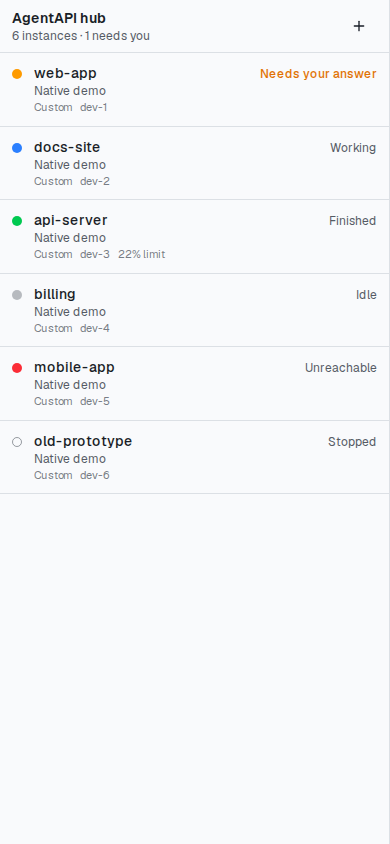
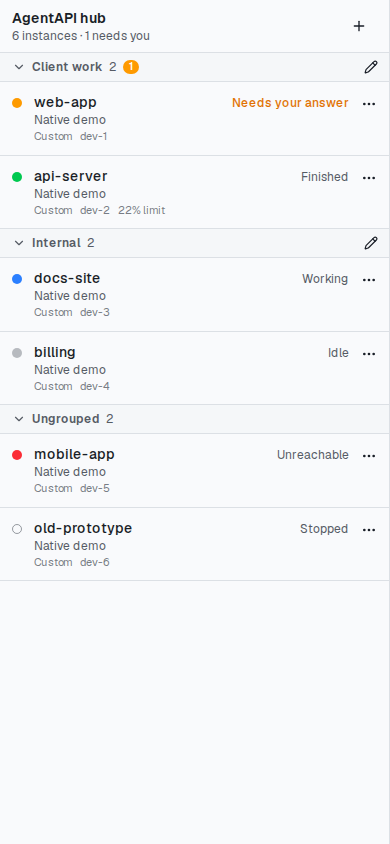
docs: hub groups, and Forget in the row menu
The hub guide (both languages) gets a Groups section with a phone
screenshot of a row's menu, the PATCH endpoint and the state file's
groups; the READMEs, chat UI and architecture guides and the changelog
mention them. The capture script puts four demo instances in two groups,
adds hub-phone-menu.png and numbers the host placeholders with a CSS
counter so group headers don't skip numbers; every screenshot retaken.

diff --git a/docs/hub.md b/docs/hub.md
@@ -147,8 +147,8 @@ stores the token. Changing `--token` signs every browser out.
 
 Each row shows the instance's name (`--name`, by default its working directory's name), what it is
 doing, its title (the session's name, else the start of the latest prompt), the agent, the machine,
-how many messages wait in its queue and its fullest usage limit. The rows sort by state in this
-order, then by name:
+how many messages wait in its queue and its fullest usage limit. Within a [group](#groups), the
+rows sort by state in this order, then by name:
 
 | Dot | Label | Meaning |
 | --- | --- | --- |
@@ -167,6 +167,21 @@ hub`, so a pinned tab shows it.
 
 "Finished" follows the instance's unread mark, which every client of that AgentAPI shares: opening
 the instance in the hub, or in its own chat, marks it read everywhere.
+
+### Groups
+
+![A row's menu on a phone: its group, a new one, and Forget](screenshots/hub-phone-menu.png)
+
+Sort the instances into groups of your own, by client, project or machine. The **⋯** at the end of
+each row moves the instance to a group, to a **New group…**, or to **No group**. Groups are kept on
+the hub, so the phone and the desktop show the same ones, and an instance's own events never move
+it.
+
+Once there is a group, the list gets a header per group, by name, with the instances in no group
+last under **Ungrouped**. A header shows how many instances the group has and, in amber, how many
+need you, so a folded group still tells you. Tap a header to fold or unfold it; each browser
+remembers which groups it folded. The pencil renames the group, moving all its instances. A group
+name has at most 40 characters, and a group with no instance left disappears.
 
 ### Opening an instance
 
@@ -195,8 +210,8 @@ AgentAPI 1.1 or later. A token given here is kept for that instance and sent ins
 `--instance-token`. An instance added this way doesn't report starting or stopping; the hub just
 finds it reachable or not.
 
-A stopped or unreachable row shows **Forget** when you hover it, which removes it from the hub.
-An instance that joined with its webhook comes back the next time it starts.
+The **⋯** menu of a stopped or unreachable row has **Forget**, which removes it from the hub. An
+instance that joined with its webhook comes back the next time it starts.
 
 ## Tokens and security
 
@@ -281,6 +296,7 @@ be changed now applies the file when it restarts.
 | `DELETE /api/session` | Signs out |
 | `GET /api/instances` | The instances, with their summaries and connection state |
 | `POST /api/instances` | `{"url": …, "token": …}` adds an instance by its URL |
+| `PATCH /api/instances/{id}` | `{"group": …}` puts an instance in a group; `""` in none |
 | `DELETE /api/instances/{id}` | Forgets an instance |
 | `GET /api/events` | Server-sent events: `instances` (all of them), then `instance` (one changed), `removed` (`{"id"}`) and a `heartbeat` every 15 s |
 | `/i/{id}/…` | The instance's own API and chat, through the hub |
@@ -294,7 +310,7 @@ Every endpoint but `/hooks` and `/api/session` needs the session cookie or
 | --- | --- | --- |
 | `~/.agentapi/config.yaml` | `agentapi hub join` | The hub's webhook, read by every `agentapi server` |
 | `~/.agentapi/instances/` | `agentapi server` | The AgentAPIs running on this machine, for `join` and `agentapi list` |
-| `~/.agentapi/hub/instances.json` | `agentapi hub serve` | The instances the hub knows, and tokens of the ones added by hand |
+| `~/.agentapi/hub/instances.json` | `agentapi hub serve` | The instances the hub knows, their groups, and tokens of the ones added by hand |
 
 ## Limits
 

diff --git a/docs/screenshots/README.md b/docs/screenshots/README.md
@@ -19,7 +19,7 @@ uncommitted changes):
 - bash as a PTY agent (`--term-width 100`), for TTY mode;
 - `agentapi hub serve` with six `native-demo` instances that join it with `agentapi hub join`, for
   the hub: one waits for an approval, one works, one finished a task, one is idle, one stopped
-  and one was killed, so the hub can't reach it. The rows name the machine; the screenshots show
+  and one was killed, so the hub can't reach it. Four of them are in two groups. The rows name the machine; the screenshots show
   placeholders (`dev-1` and so on).
 
 ## Gallery
@@ -66,9 +66,10 @@ device scale factor of 1.
 | [tty-mode.png](tty-mode.png) | TTY mode on a PTY agent |
 | [hub-desktop.png](hub-desktop.png) | The hub: its instances, what needs you first, and one open in the chat with its approval |
 | [hub-sign-in.png](hub-sign-in.png) | Signing in to the hub |
-| [hub-list.png](hub-list.png) | The hub's list with every state: needs your answer, working, finished, idle, unreachable, stopped |
+| [hub-list.png](hub-list.png) | The hub's list in two groups and Ungrouped, with every state: needs your answer, working, finished, idle, unreachable, stopped |
 | [hub-add.png](hub-add.png) | Adding an instance by its URL and token |
-| [hub-phone.png](hub-phone.png) | The hub's list on a phone |
+| [hub-phone.png](hub-phone.png) | The hub's list on a phone, in groups |
+| [hub-phone-menu.png](hub-phone-menu.png) | A row's menu on a phone: its group, a new one, and Forget |
 | [hub-phone-chat.png](hub-phone-chat.png) | An instance open from the hub on a phone, with the way back to the list |
 
 The GIFs use a 1100 × 720 window, or 390 × 844 for the phone view. A blue dot marks the pointer and

diff --git a/docs/architecture.zh-TW.md b/docs/architecture.zh-TW.md
@@ -98,7 +98,7 @@ flowchart TB
 | `lib/native/nativetest` | 測試用、可以寫腳本控制的假 adapter |
 | `lib/native/procutil` | 子行程：行程群組（process group）與正常關閉流程 |
 | `lib/statedb/` | `--state-db` 的 SQLite 持久保存（native 與 PTY），以及 `--state-file` 的匯入 |
-| `lib/hub/` | `agentapi hub serve`：實例（`store.go`，保存在檔案中）、有簽章的 webhook 接收端（`webhook.go`）、每個實例的摘要串流（`watch.go`）、登入、瀏覽器的事件串流，以及到實例的代理（`hub.go`、`proxy.go`）；使用說明見 [hub.zh-TW.md](hub.zh-TW.md) |
+| `lib/hub/` | `agentapi hub serve`：實例和頁面上設定的群組（`store.go`，保存在檔案中）、有簽章的 webhook 接收端（`webhook.go`）、每個實例的摘要串流（`watch.go`）、登入、瀏覽器的事件串流，以及到實例的代理（`hub.go`、`proxy.go`）；使用說明見 [hub.zh-TW.md](hub.zh-TW.md) |
 | `lib/userconfig/` | 使用者的設定檔 `~/.agentapi/config.yaml`：以旗標名稱設定，`agentapi server` 讀取、`agentapi hub` 寫入 |
 | `lib/registry/` | 一台機器上執行中 AgentAPI 的登記檔（`~/.agentapi/instances`）：以原子方式寫入、列出，並刪除行程已不在的登記檔 |
 | `lib/shellterm/` | Native 工作階段共用的 shell 終端機 |

diff --git a/docs/architecture.md b/docs/architecture.md
@@ -100,7 +100,7 @@ answers write keys directly to the agent's terminal.
 | `lib/native/nativetest` | A scriptable fake adapter for tests |
 | `lib/native/procutil` | Child process groups and graceful shutdown |
 | `lib/statedb/` | SQLite persistence for `--state-db` (native and PTY), and the import of a `--state-file` |
-| `lib/hub/` | `agentapi hub serve`: the instances (`store.go`, kept in a file), the signed webhook receiver (`webhook.go`), each instance's summary stream (`watch.go`), sign-in, the browser's event stream and the proxy to the instances (`hub.go`, `proxy.go`); the user guide is [hub.md](hub.md) |
+| `lib/hub/` | `agentapi hub serve`: the instances and the groups set on its page (`store.go`, kept in a file), the signed webhook receiver (`webhook.go`), each instance's summary stream (`watch.go`), sign-in, the browser's event stream and the proxy to the instances (`hub.go`, `proxy.go`); the user guide is [hub.md](hub.md) |
 | `lib/userconfig/` | The user's settings file, `~/.agentapi/config.yaml`: flags by name, read by `agentapi server`, written by `agentapi hub` |
 | `lib/registry/` | The entries of the AgentAPIs running on a machine (`~/.agentapi/instances`): writing one atomically, listing them and removing those whose process is gone |
 | `lib/shellterm/` | The shared shell terminal of native sessions |

diff --git a/docs/chat-ui.md b/docs/chat-ui.md
@@ -491,8 +491,10 @@ What needs you comes first, with an amber dot and the reason (an approval or que
 usage limit); then a pulsing blue dot while one works, a green one for a finished task you haven't
 seen, then idle, unreachable and stopped ones. The tab title counts what needs you. Picking one
 opens it in this chat beside the list (or instead of it on a phone, with a back button), through
-the hub, which sends the instance's token. `+` adds an instance by its URL and token; a stopped or
-unreachable one can be forgotten. The [hub guide](hub.md) covers setup and every state in detail.
+the hub, which sends the instance's token. `+` adds an instance by its URL and token. Each row's
+`⋯` menu puts the instance in a group of your own (the list then shows a folding header per group)
+or forgets a stopped or unreachable one. The [hub guide](hub.md) covers setup, groups and every
+state in detail.
 
 ## Connection and caching
 

diff --git a/README.zh-TW.md b/README.zh-TW.md
@@ -1205,7 +1205,7 @@ agentapi hub serve --token "$HUB_TOKEN" --secret "$HUB_SECRET" --instance-token 
 
 - AgentAPI 用 [`agentapi hub join`](#加入-hub) 加入：它們有簽章的 `instance.*` 事件會新增它們，
   hub 再以一條連線追蹤每個實例的[摘要串流](#監看多個實例)。也可以用 `+` 輸入網址（和 token）手動
-  加入；已停止或連不到的可以移除。
+  加入；每一列的 `⋯` 選單可以把實例放進自己建立的群組，或移除已停止、連不到的實例。
 - hub 透過自己開啟實例（`/i/<id>/...`），以實例的 API token（`--instance-token`，或加入時給的）
   取代你的憑證。瀏覽器不會拿到實例的 token，也不會直接連到實例，所以實例不必為它設定 CORS。
 - 只接受以 `--secret` 簽章、而且不超過 10 分鐘的事件，已處理過的傳送會被忽略：事件裡的網址就是

diff --git a/README.md b/README.md
@@ -1430,8 +1430,8 @@ what needs you. Pick one to open it in the chat. On a phone the list and the cha
 
 - AgentAPIs join it with [`agentapi hub join`](#joining-a-hub): their signed `instance.*` events
   add them, and the hub follows each one's [summary stream](#watching-many-instances) from one
-  connection. `+` adds one by its URL (and token) instead; a stopped or unreachable one can be
-  forgotten.
+  connection. `+` adds one by its URL (and token) instead. Each row's `⋯` menu puts the
+  instance in a group of your own, or forgets a stopped or unreachable one.
 - The hub opens an instance through itself (`/i/<id>/...`), sending the instance's API token
   (`--instance-token`, or the one given when it was added) in place of your credentials. The
   browser never holds the instances' tokens or reaches them itself, so no instance needs CORS for

diff --git a/CHANGELOG.md b/CHANGELOG.md
@@ -1,5 +1,19 @@
 # Changelog
 
+## Unreleased
+
+### Features
+
+- Sort the hub's instances into groups of your own: each row's `⋯` menu moves the instance to a
+  group, a new one or none. Groups are kept on the hub (`PATCH /api/instances/{id}`), so every
+  browser shows the same ones. The list then gets a header per group that folds, counts the
+  instances and how many need you, and renames the group.
+
+### Fixes
+
+- A stopped or unreachable instance can be forgotten on a phone: **Forget** moved from a
+  hover-only button to the row's `⋯` menu.
+
 ## v1.3.0
 
 ### Features
